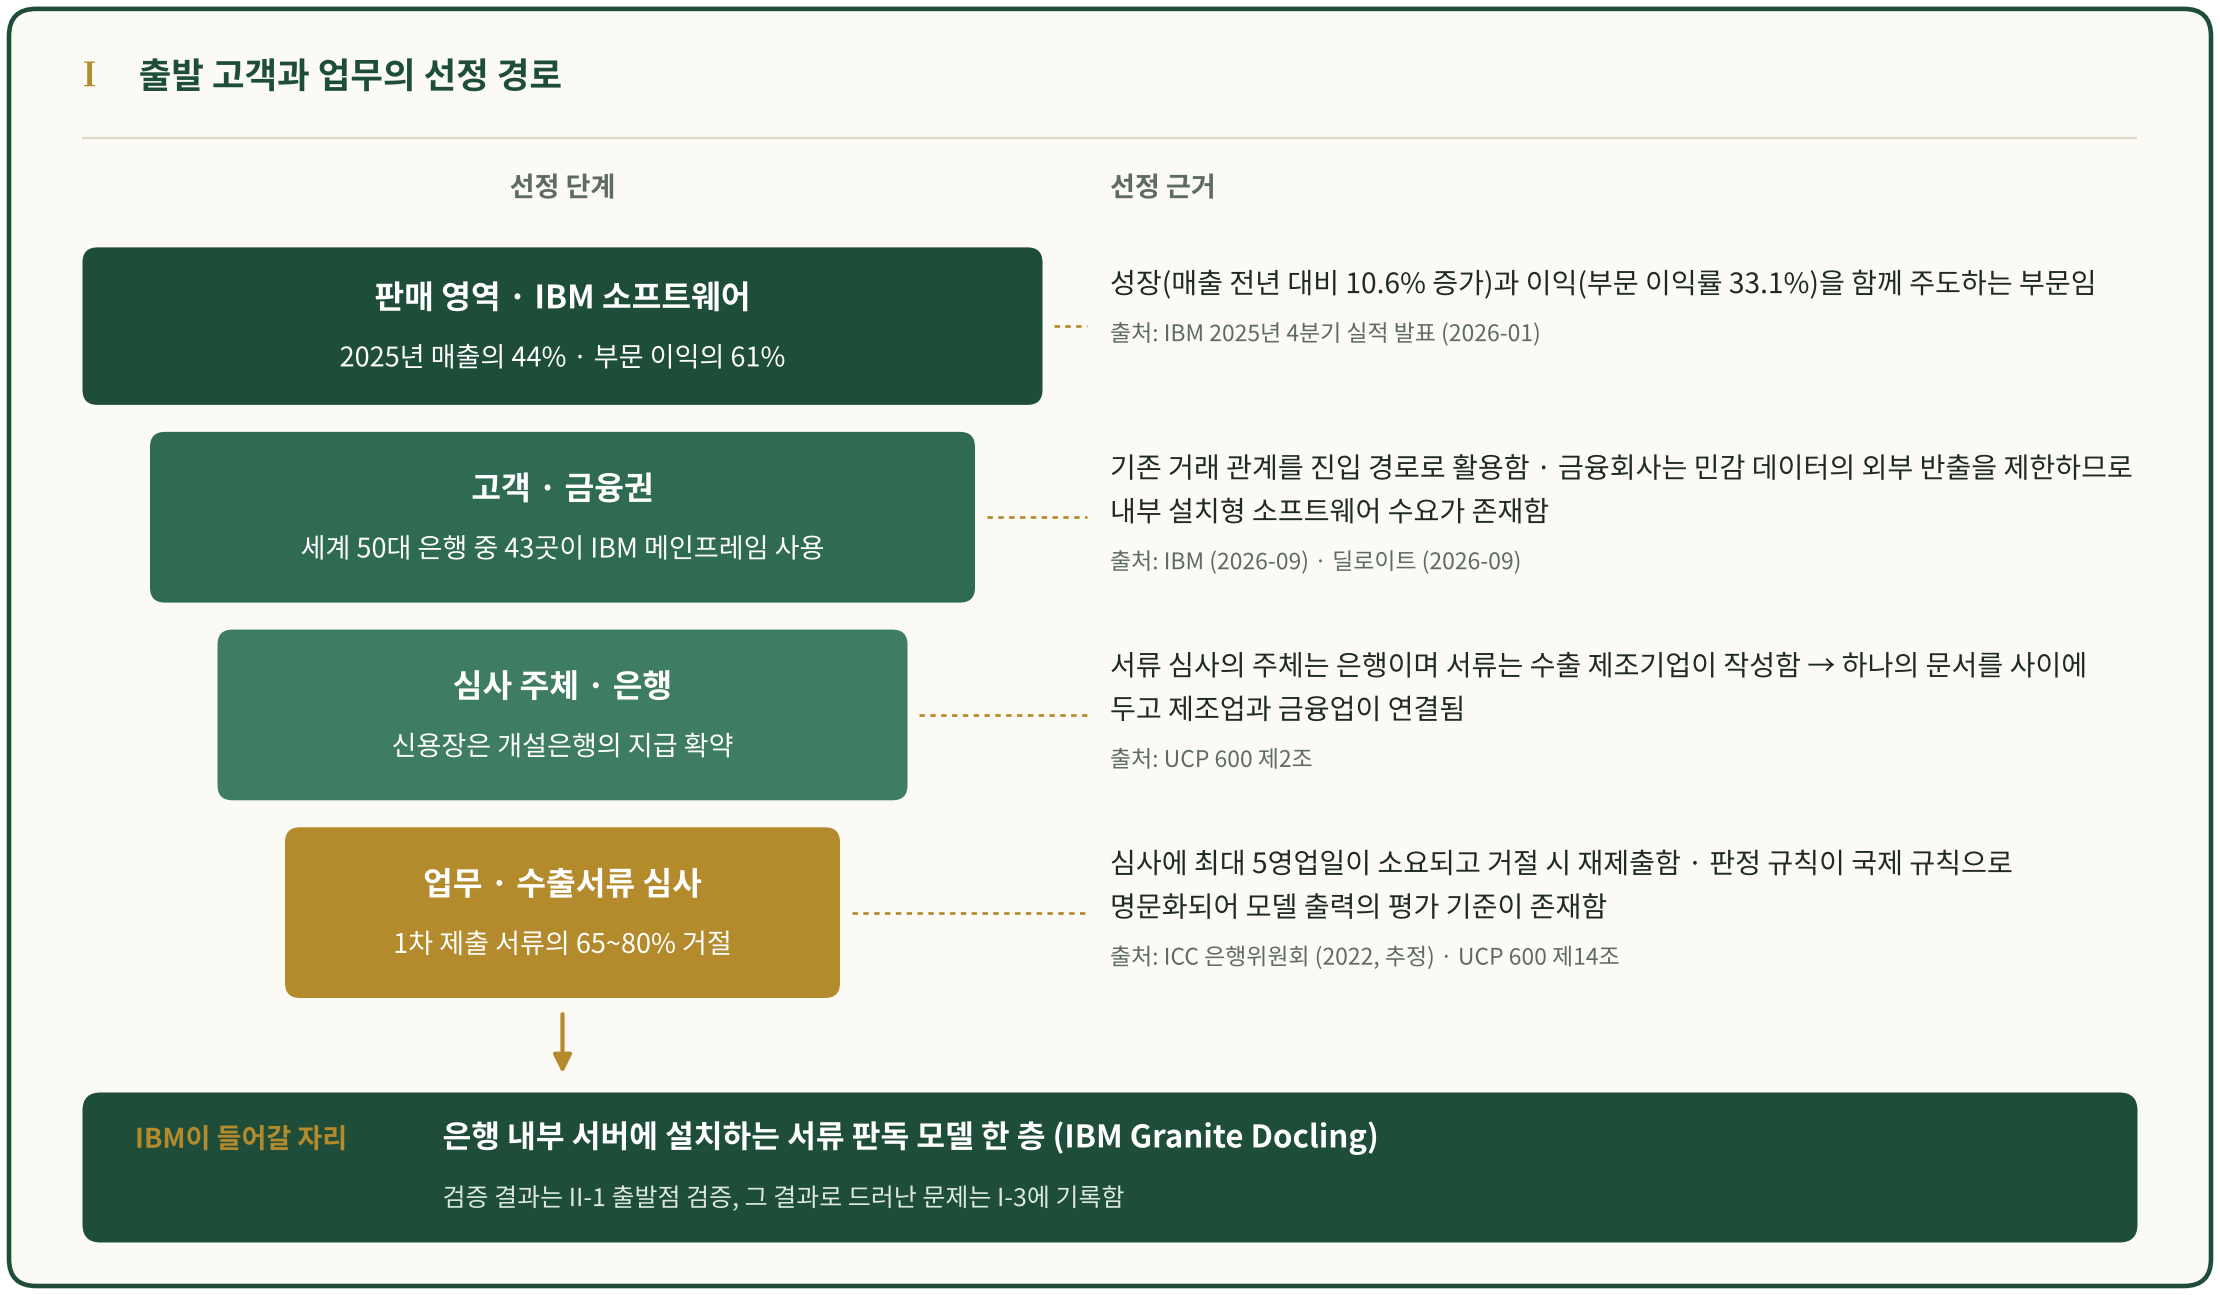
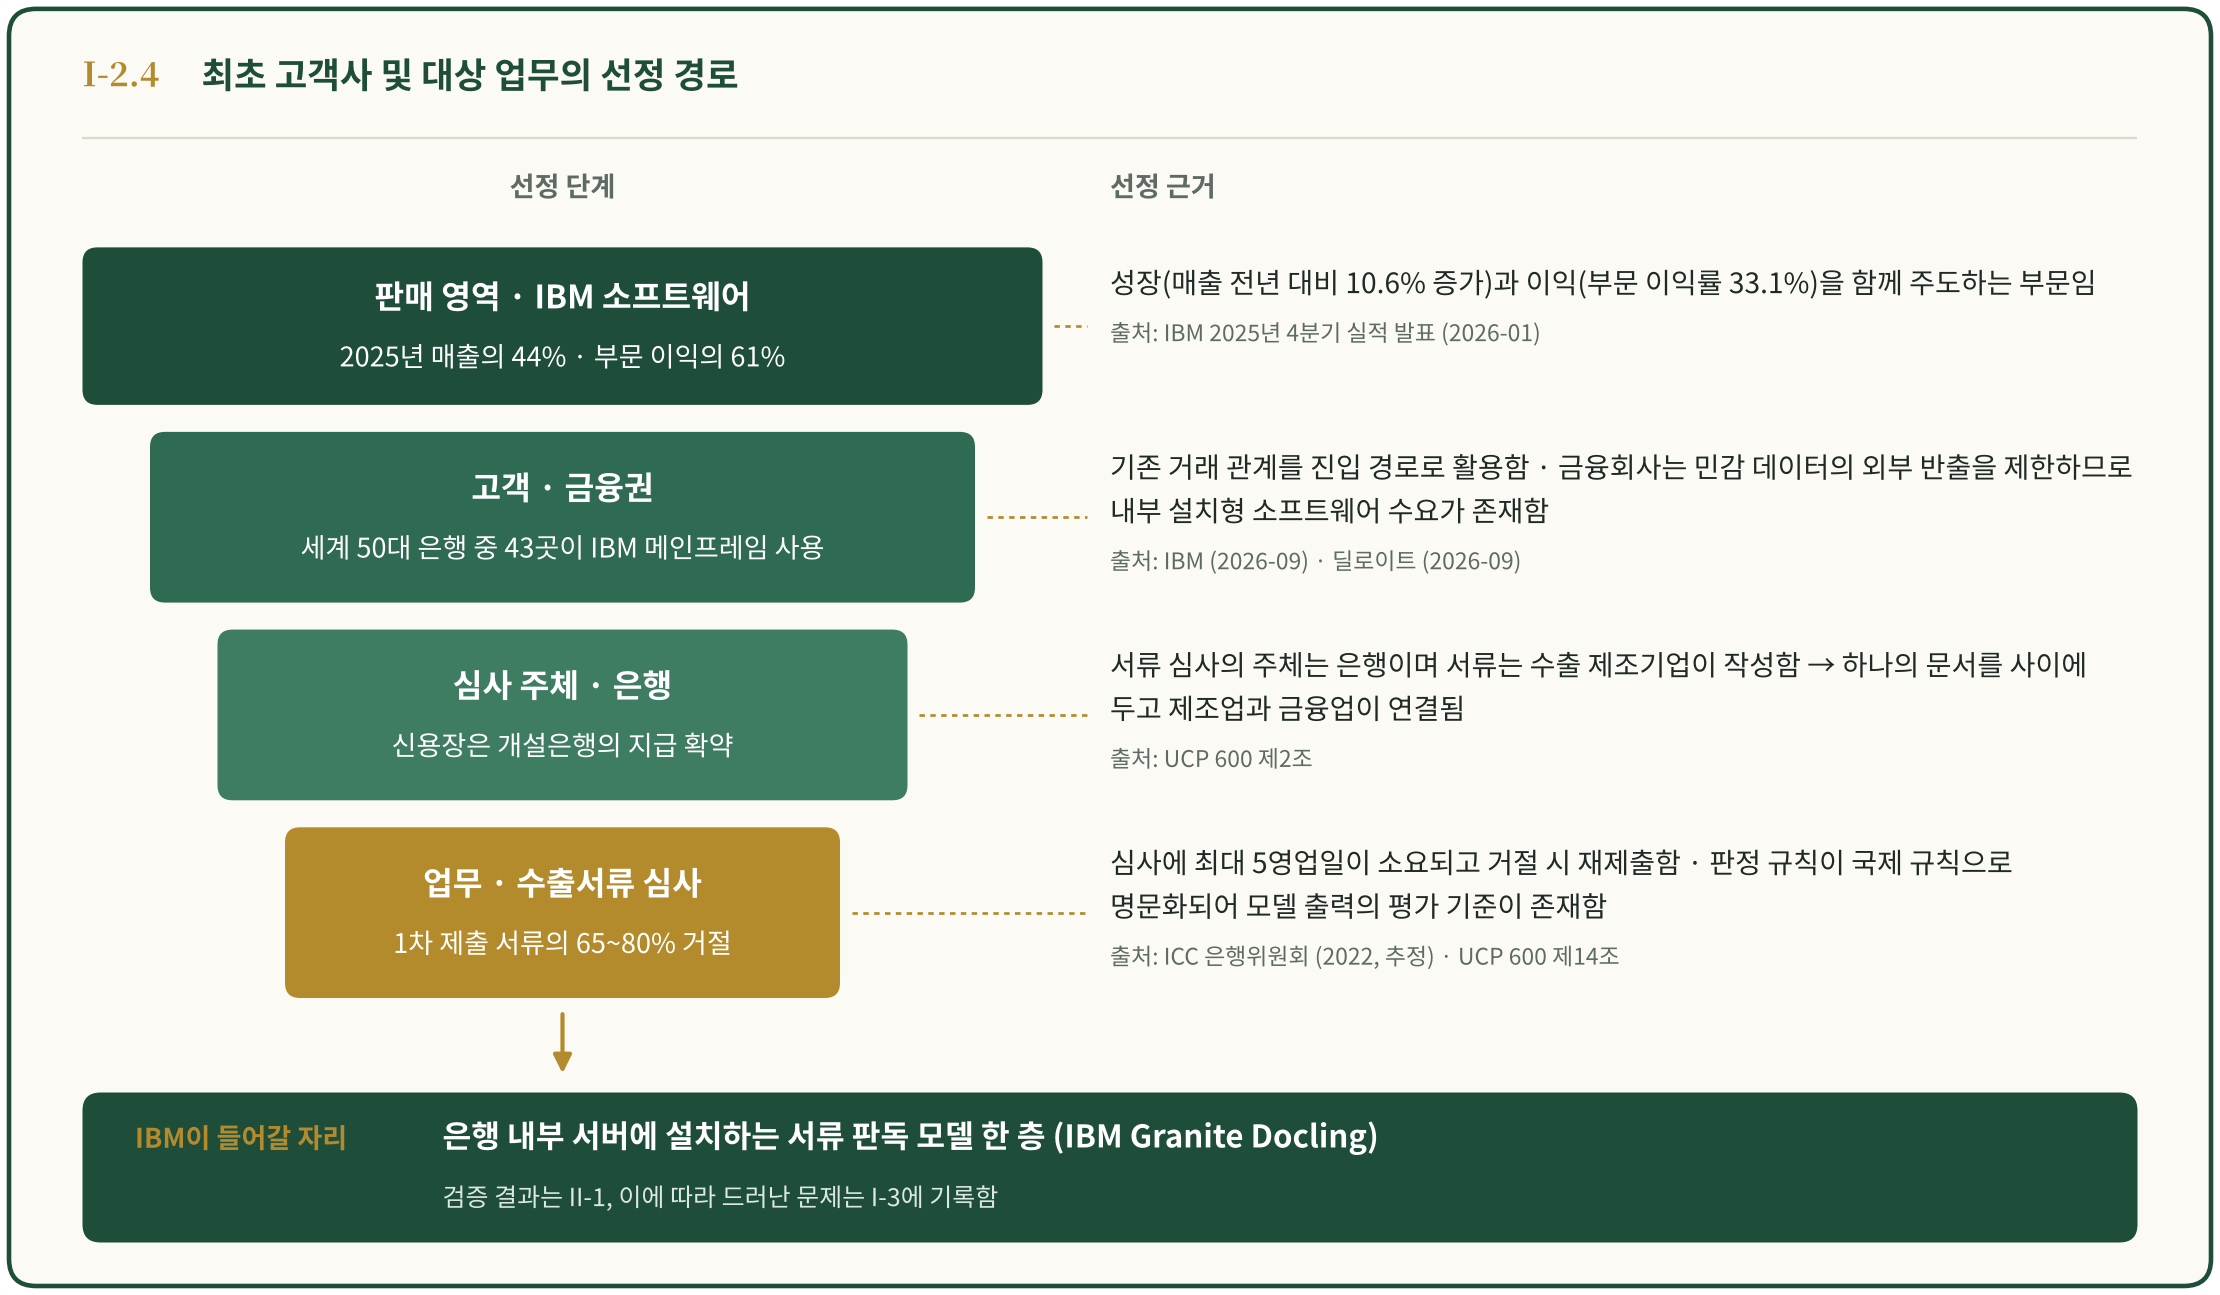
docs: 문제 정의 선정 경로 그림을 Ⅰ-2.4로 이동, 문제 카드 그림 삭제, 표현 정리

Changed region(s): [[0.0622, 0.0309, 0.3419, 0.0927], [0.2797, 0.8958, 0.4973, 0.9575]]

diff --git a/README.md b/README.md
@@ -24,7 +24,7 @@
 | | Ⅰ-2 | 왜 은행의 수출서류 심사인가 — 제조사가 쓰고 은행이 판단하는 업무 |
 | | Ⅰ-3 | 선행 프로젝트로 드러난 문제 — 같은 구조가 탄소 데이터에서 반복됨 |
 | | Ⅰ-4 | 본 발표의 문제와 성공 기준 |
-| 🧭 Ⅱ 맥락 | Ⅱ-1 | 출발점 검증 — 판독 모델 한 층의 매출 지점과 진입 여지 |
+| 🧭 Ⅱ 맥락 | Ⅱ-1 | 수출서류 판독 층 검증 — 판독 모델 한 층의 매출 지점과 진입 여지 |
 | | Ⅱ-2 | 레포 계보 — 대상·시점 선별 질문에 답하는 과정 |
 | | Ⅱ-3 | 규제 배경 — 수요 발생 시점 |
 | | Ⅱ-4 | 판매 대상 — 탄소 데이터 4층 구조와 이중 보고 대조 부담 |
@@ -53,14 +53,14 @@
 ### 구성
 
 - 문제 정의 → 분석 → 실행 → 성과 순서로 구성함
-- Ⅰ 문제 정의: 왜 은행에서 출발했으며, 은행이 쓰는 숫자의 무엇이 비어 있는가
+- Ⅰ 문제 정의: 은행을 최초 고객사로 선정한 근거와, 은행이 사용하는 숫자에서 비어 있는 부분
 - Ⅱ 맥락(분석): 왜, 언제 수요가 생기는가
 - Ⅲ 선별(실행): 누구에게, 언제 가는가
 - Ⅳ 결론(성과): 어디에 무엇을 파는가
 
 ### 발표 범위
 
-- 선행 프로젝트(trade-doc-parsing-model-eval)의 결과: 출발 고객과 업무를 정한 근거로 Ⅰ부에 사용함
+- 선행 프로젝트(trade-doc-parsing-model-eval)의 결과: 최초 고객사와 대상 업무를 선정한 근거로 Ⅰ부에 사용함
 - 진행 문서 00\~07(분석 단계): 대상 선별·채점·연도별 로드맵 — Ⅱ·Ⅲ부
 - 진행 문서 08\~10(시연 단계, 2026-10-14 기준 진행 중): 시연 대상 기업 8곳의 공개 데이터와 시연 설계를 Ⅳ-1.3·Ⅳ-2에 사용함. 시연 결과(실제 형태 데이터 판정)는 포함하지 않음
 
@@ -69,10 +69,6 @@
 ## 🔑 Ⅰ 문제 정의 — 왜 은행이며, 무엇이 비어 있는가
 
 <p align="center"><img src="figures/presentation/part1_problem.png" width="100%" alt="Ⅰ 문제 정의"></p>
-
-<p align="center"><img src="figures/presentation/p1_selection_funnel.png" width="100%" alt="출발 고객과 업무의 선정 경로"></p>
-
-<p align="center"><sub>판매 영역(소프트웨어)에서 고객(금융권)·심사 주체(은행)·업무(수출서류 심사) 순으로 좁혀 IBM이 들어갈 한 층을 정함</sub></p>
 
 <details>
 <summary><b>Ⅰ-1. 왜 금융 고객인가 — IBM 소프트웨어의 기존 고객 기반</b></summary>
@@ -123,7 +119,13 @@
 
 <p align="center"><sub>완성 시스템이 아닌 판독 모델 한 층(2번)만 IBM이 공급하며, 판단 규칙과 기록은 은행이 보유함</sub></p>
 
-### Ⅰ-2.4 불리한 근거
+### Ⅰ-2.4 최초 고객사 및 대상 업무의 선정 경로 (Ⅰ-1·Ⅰ-2 요약)
+
+<p align="center"><img src="figures/presentation/p1_selection_funnel.png" width="100%" alt="최초 고객사 및 대상 업무의 선정 경로"></p>
+
+<p align="center"><sub>판매 영역(소프트웨어)에서 고객(금융권)·심사 주체(은행)·대상 업무(수출서류 심사) 순으로 범위를 좁혀 IBM이 진입할 한 층을 선정함</sub></p>
+
+### Ⅰ-2.5 불리한 근거
 
 - IBM 공식 조사(2026 CEO Study)에는 무역금융·문서 처리 언급이 없음 → 업무 선정은 IBM의 강조 영역이 아닌 자체 판단에 근거함
 - ICC 거절률은 추정 범위이며, 최종 지급 거절률이 아닌 1차 제출 기준임
@@ -160,11 +162,6 @@
 <details open>
 <summary><b>Ⅰ-4. 본 발표의 문제와 성공 기준</b></summary>
 
-<p align="center"><img src="figures/presentation/p1_problem_card.png" width="100%" alt="본 발표의 문제와 성공 기준"></p>
-
-<details>
-<summary>카드 원문 보기</summary>
-
 ### Ⅰ-4.1 문제
 
 > 은행은 거래 제조사가 낸 숫자로 심사하고 공시하지만, 그 숫자가 어디서 왔는지 증명하는 일은 비어 있음. 이 빈자리를 채우는 IBM 제품을 누구에게 언제 팔지 정함
@@ -189,8 +186,6 @@
 
 </details>
 
-</details>
-
 ---
 
 ## 🧭 Ⅱ 맥락 — 왜, 언제 수요가 생기는가
@@ -198,7 +193,7 @@
 <p align="center"><img src="figures/presentation/part2_context.png" width="100%" alt="Ⅱ 맥락"></p>
 
 <details>
-<summary><b>Ⅱ-1. 출발점 검증 — 판독 모델 한 층의 매출 지점과 진입 여지</b></summary>
+<summary><b>Ⅱ-1. 수출서류 판독 층 검증 — 판독 모델 한 층의 매출 지점과 진입 여지</b></summary>
 
 ### Ⅱ-1.1 IBM 판매 정책상 모델 한 층 공급 가능 여부
 
@@ -766,7 +761,7 @@
 
 </details>
 
-- 결론의 무게중심은 데이터 근거임 — 각 판단은 공시·고시·보고서의 숫자에서 출발하며, 원문까지 추적할 수 있도록 근거 문서를 함께 기재함
+- 결론의 무게중심은 데이터 근거임 — 각 판단은 공시·고시·보고서의 숫자를 근거로 하며, 원문까지 추적할 수 있도록 근거 문서를 함께 기재함
 
 ### Ⅳ-2.2 10개 기업의 구성
 
